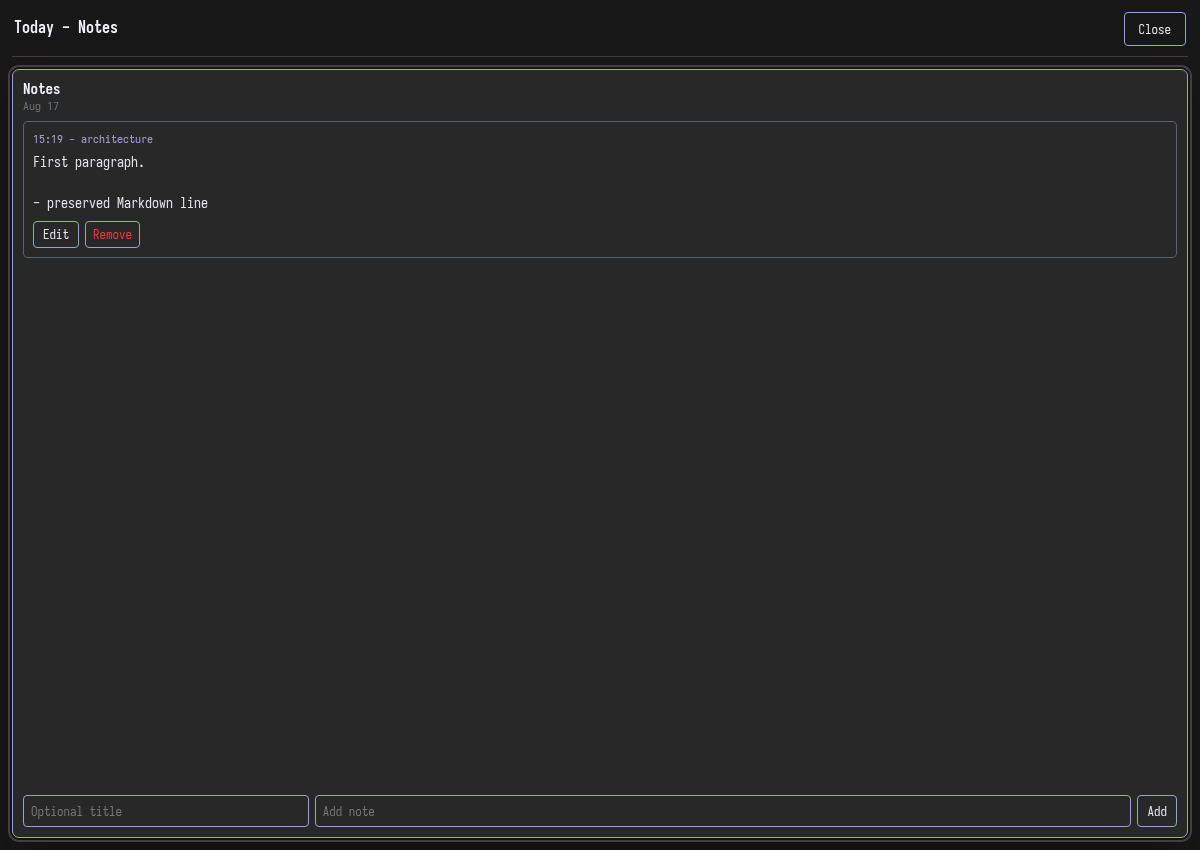
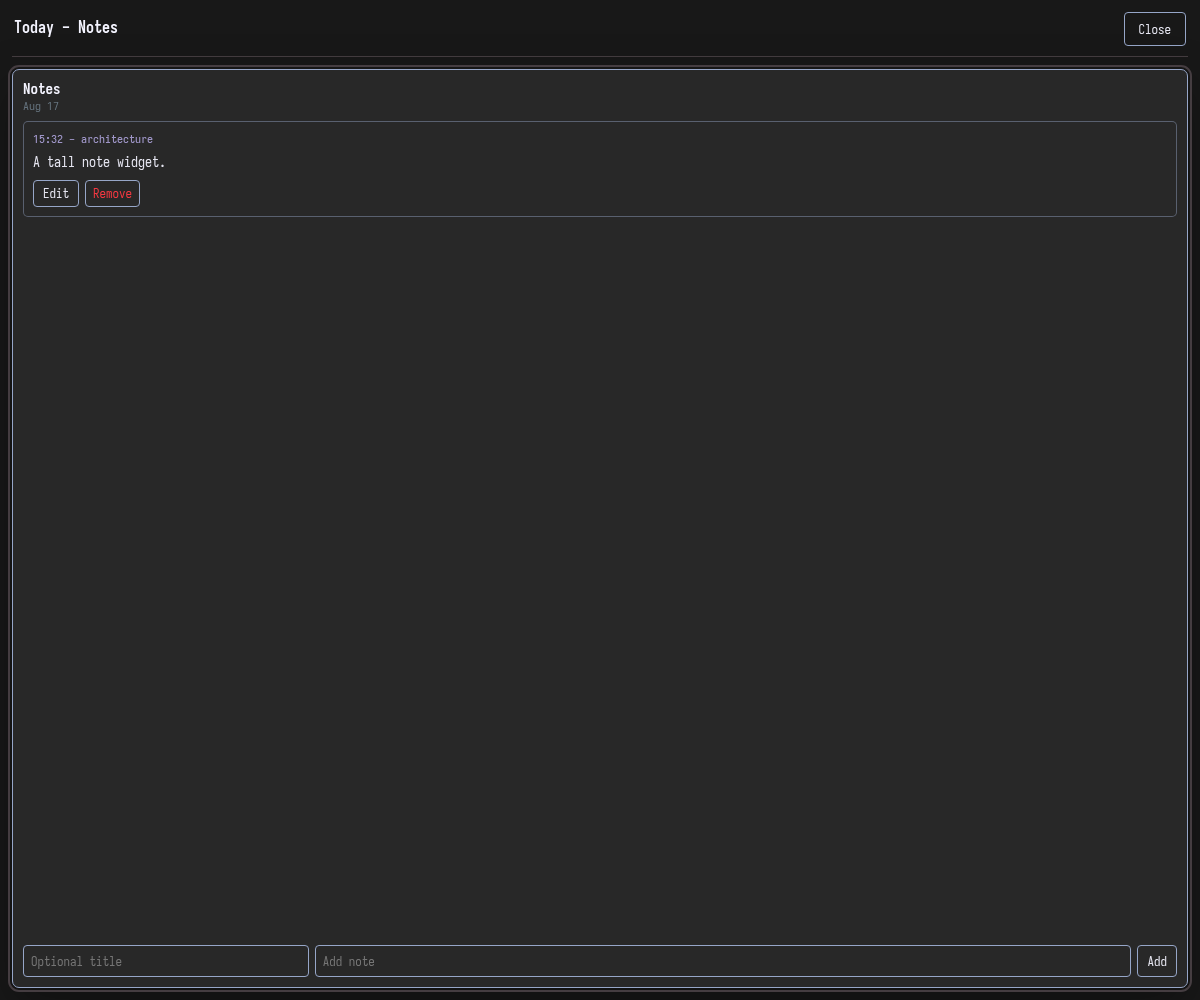
fix: make Notes widget tall

Changed region(s): [[0.0, 0.9482, 1.0, 1.0], [0.0, 0.0, 1.0, 0.3059], [0.0, 0.0, 0.0308, 0.0306]]

diff --git a/tasks/20260817-150307/TASK.md b/tasks/20260817-150307/TASK.md
@@ -4,7 +4,7 @@
 - PRIORITY: 100
 - TAGS: markdown,notes,dashboardd,migration
 
-Replace the legacy daily Markdown layout with independent Tasks, Habits, Macros, Weight, and Notes sections, then add a 5x3 structured Notes widget.
+Replace the legacy daily Markdown layout with independent Tasks, Habits, Macros, Weight, and Notes sections, then add a tall 3x5 structured Notes widget.
 
 ## Accepted format
 
@@ -28,7 +28,7 @@ Replace the legacy daily Markdown layout with independent Tasks, Habits, Macros,
 - New parser and all writers use only the canonical sections.
 - Tomorrow is removed from the model and JSON output.
 - Notes support list, add, edit, and remove with revisions.
-- Notes dashboard variant is 5x3 with normal append and Focus edit/remove.
+- Notes dashboard variant is a tall 3x5 with normal append and Focus edit/remove.
 - Migration preserves old source text semantically and validates task, weight, and food counts.
 - Template and all daily entries use the canonical structure.
 - Today, browser, migration, and Home Manager checks pass.
@@ -40,7 +40,7 @@ Replace the legacy daily Markdown layout with independent Tasks, Habits, Macros,
 - Removed Tomorrow from `Day` and JSON output.
 - Replaced embedded task and weight writes with section-scoped transforms.
 - Added structured note list/add/edit/remove operations and backend commands.
-- Added a 5x3 Notes widget with normal quick append and Focus editing/removal.
+- Added a tall 3x5 Notes widget with normal quick append and Focus editing/removal.
 - Added the task-local atomic migration script. It converts old task and weight
   structures, wraps ambiguous content in `#### Imported`, converts standalone
   old note markers to H4 titles, and preserves Tomorrow data under
@@ -73,9 +73,18 @@ Replace the legacy daily Markdown layout with independent Tasks, Habits, Macros,
 - Updated and applied the Home Manager activation package.
 - dashboardd is active and all five existing Today backends became ready
   against the migrated strict format.
-- Runtime catalog exposes six Today variants, including Notes at 5x3.
+- Runtime catalog exposes six Today variants, including Notes at 3x5.
 - Current real entry reports its migrated task, weight, and structured note
   values correctly.
 - Browser automation added a titled note in normal mode, edited its multi-line
   body in Focus, found no page errors, and found no phone horizontal overflow.
 - Review artifacts: `notes-widget.png`, `notes-focus.png`, and `notes-phone.png`.
+
+## Dimension correction
+
+- Initial implementation incorrectly used width 5 and height 3 despite the
+  explicit tall requirement.
+- Corrected Notes to width 3 and height 5.
+- Added package assertions for both dimensions.
+- Repeated desktop, Focus, and phone browser checks. The desktop widget's
+  measured height is greater than its width.
